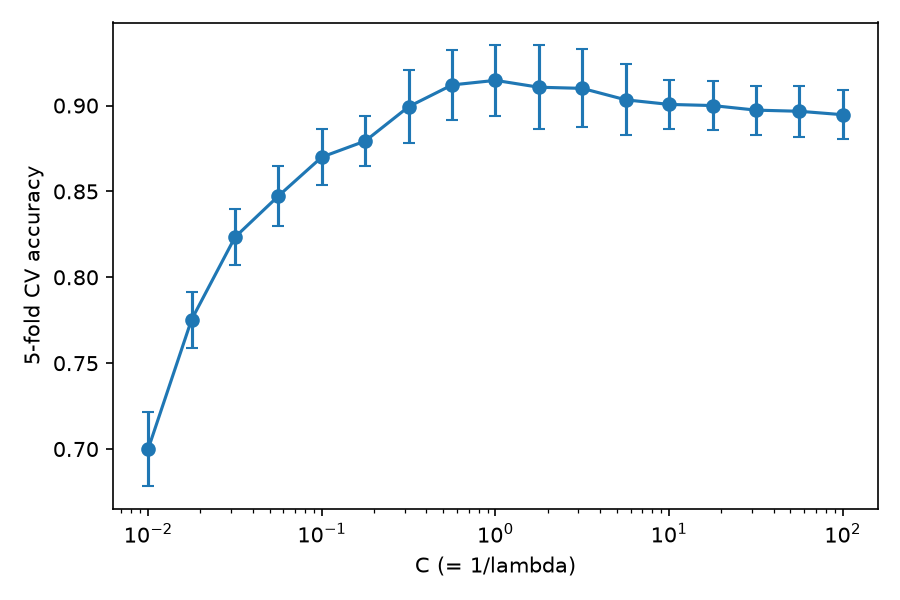
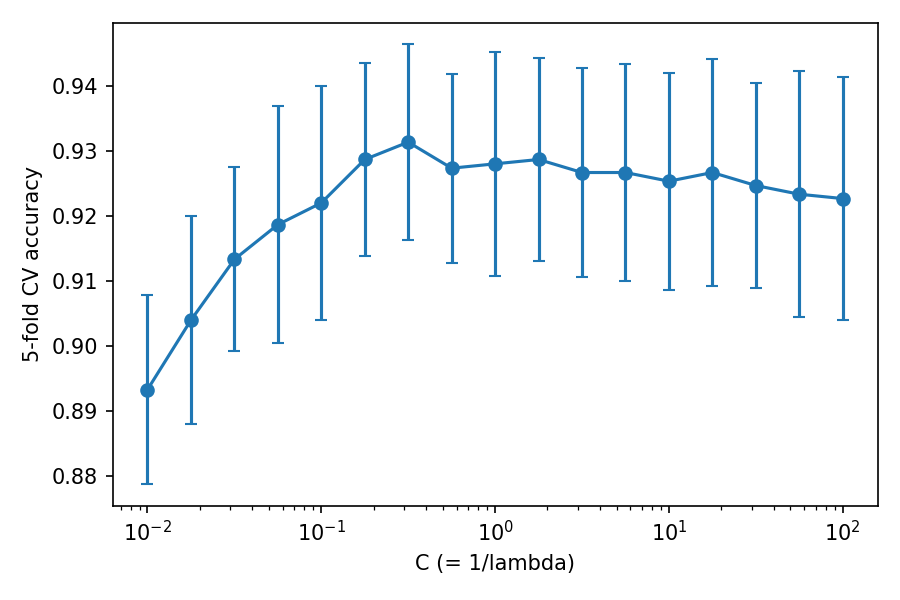
Add Random Forest and Gradient Boosting models

diff --git a/src/gb.py b/src/gb.py
@@ -1,0 +1,69 @@
+# 梯度提升
+# 词袋 -> GradientBoostingClassifier
+# 调参: 树的数量、学习率和树深度，5 折交叉验证
+import matplotlib.pyplot as plt
+import numpy as np
+import pandas as pd
+from sklearn.ensemble import GradientBoostingClassifier
+from sklearn.model_selection import GridSearchCV
+from sklearn.pipeline import Pipeline
+
+from config import SEED
+from preprocessing import TextPreprocessor
+
+N_TREES = [100, 200]
+LEARNING_RATES = [0.03, 0.1]
+DEPTHS = [1, 2, 3]
+
+
+def tune(d):
+    pipe = Pipeline([
+        ("vec", TextPreprocessor().make_vec()),
+        ("clf", GradientBoostingClassifier(random_state=SEED)),
+    ])
+    grid = {
+        "clf__n_estimators": N_TREES,
+        "clf__learning_rate": LEARNING_RATES,
+        "clf__max_depth": DEPTHS,
+    }
+    # 并行交叉验证；refit=True 会在完整训练集上重新训练最优模型
+    gs = GridSearchCV(pipe, grid, cv=d.folds(), scoring="accuracy",
+                      n_jobs=-1, refit=True, verbose=1, error_score="raise")
+    gs.fit(d.X, d.y)
+
+    cv = gs.cv_results_
+    res = pd.DataFrame({
+        "n_estimators": list(cv["param_clf__n_estimators"]),
+        "learning_rate": list(cv["param_clf__learning_rate"]),
+        "max_depth": list(cv["param_clf__max_depth"]),
+        "acc": cv["mean_test_score"],
+        "sd": cv["std_test_score"],
+    })
+    return gs.best_estimator_, gs.best_params_, res
+
+
+def top(m, n=5):
+    # 不纯度下降重要性：只有大小，不表示偏向 AI 还是人写
+    names = m["vec"].get_feature_names_out()
+    imp = m["clf"].feature_importances_
+    idx = np.argsort(imp)[::-1][:n]
+    return pd.DataFrame({"feature": names[idx], "score": imp[idx]})
+
+
+def plot(res, path):
+    # 每个子图固定树深度，每条曲线固定学习率
+    depths = sorted(res["max_depth"].unique())
+    fig, axes = plt.subplots(1, len(depths), figsize=(5 * len(depths), 4),sharey=True, squeeze=False)
+    for ax, depth in zip(axes[0], depths):
+        sub = res[res["max_depth"] == depth]
+        for rate in sorted(sub["learning_rate"].unique()):
+            r = sub[sub["learning_rate"] == rate].sort_values("n_estimators")
+            ax.errorbar(r["n_estimators"], r["acc"], yerr=r["sd"],
+                        marker="o", capsize=3, label=f"learning_rate={rate}")
+        ax.set_title(f"max_depth={depth}")
+        ax.set_xlabel("Number of trees")
+        ax.legend()
+    axes[0, 0].set_ylabel("5-fold CV accuracy")
+    fig.tight_layout()
+    fig.savefig(path, dpi=150)
+    plt.close(fig)

diff --git a/src/rf.py b/src/rf.py
@@ -1,0 +1,61 @@
+# 随机森林
+# 词袋 -> RandomForestClassifier
+# 调参: 树的数量和每次分裂考虑的特征数量，5 折交叉验证
+import matplotlib.pyplot as plt
+import numpy as np
+import pandas as pd
+from sklearn.ensemble import RandomForestClassifier
+from sklearn.model_selection import GridSearchCV
+from sklearn.pipeline import Pipeline
+
+from config import SEED
+from preprocessing import TextPreprocessor
+
+N_TREES = [100, 300, 500]
+MAX_FEATURES = ["sqrt", 0.1, 0.3]
+
+
+def tune(d):
+    pipe = Pipeline([
+        ("vec", TextPreprocessor().make_vec()),
+        ("clf", RandomForestClassifier(random_state=SEED, n_jobs=1)),
+    ])
+    grid = {
+        "clf__n_estimators": N_TREES,
+        "clf__max_features": MAX_FEATURES,
+    }
+    # 并行交叉验证；refit=True 会在完整训练集上重新训练最优模型
+    gs = GridSearchCV(pipe, grid, cv=d.folds(), scoring="accuracy", n_jobs=-1, refit=True, verbose=1,
+                      error_score="raise")
+    gs.fit(d.X, d.y)
+
+    cv = gs.cv_results_
+    res = pd.DataFrame({
+        "n_estimators": list(cv["param_clf__n_estimators"]),
+        "max_features": list(cv["param_clf__max_features"]),
+        "acc": cv["mean_test_score"],
+        "sd": cv["std_test_score"],
+    })
+    return gs.best_estimator_, gs.best_params_, res
+
+
+def top(m, n=5):
+    # 不纯度下降重要性：只有大小，不表示偏向 AI 还是人写
+    names = m["vec"].get_feature_names_out()
+    imp = m["clf"].feature_importances_
+    idx = np.argsort(imp)[::-1][:n]
+    return pd.DataFrame({"feature": names[idx], "score": imp[idx]})
+
+
+def plot(res, path):
+    # 每条曲线固定 max_features，只改变树的数量
+    plt.figure(figsize=(7, 4))
+    for f in res["max_features"].unique():
+        r = res[res["max_features"] == f].sort_values("n_estimators")
+        plt.errorbar(r["n_estimators"], r["acc"], yerr=r["sd"], marker="o", capsize=3, label=f"max_features={f}")
+    plt.xlabel("Number of trees")
+    plt.ylabel("5-fold CV accuracy")
+    plt.legend()
+    plt.tight_layout()
+    plt.savefig(path, dpi=150)
+    plt.close()

diff --git a/src/train.py b/src/train.py
@@ -17,10 +17,12 @@ matplotlib.use("Agg")
 import lr
 import nb
 import tree
+import rf
+import gb
 from config import FIG_DIR, MOD_DIR, TAB_DIR
 from load_data import ReviewData
 
-MODELS = {"nb": nb, "lr": lr, "tree": tree}
+MODELS = {"nb": nb, "lr": lr, "tree": tree, "rf": rf, "gb": gb, }
 
 
 def main():

diff --git a/README_Gao.md b/README_Gao.md
@@ -1,0 +1,136 @@
+# AI 生成酒店评论检测：随机森林与梯度提升
+
+说明：随机森林（Random Forest）和梯度提升（Gradient Boosting）。
+两个模型复用项目已有的数据划分、文本预处理和训练入口，判断英文酒店评论是人写的还是 AI 生成的。
+
+## 目录结构
+
+以下列出本模块使用的文件及输出位置。
+
+| 路径 | 说明                          |
+|------|-----------------------------|
+| `src/rf.py` | 随机森林：调参、重要特征提取、绘图           |
+| `src/gb.py` | 梯度提升：调参、重要特征提取、绘图           |
+| `src/train.py` | 统一训练入口，保存模型和结果，已增加rf和gb模型训练 | 
+
+测试集指标与统计检验由后续统一评估流程负责。
+
+## 环境配置
+
+使用项目统一的 Python 环境和 `requirements.txt`。在运行代码的同一个解释器中安装依赖：
+
+```bash
+python -m pip install -r requirements.txt
+```
+
+本模块及公共代码使用 scikit-learn、pandas、NumPy、Matplotlib、NLTK 和 joblib。
+
+
+## 在控制台运行
+
+```bash
+python src/train.py rf gb    # 调参并训练随机森林、梯度提升
+python src/train.py rf       # 只训练随机森林
+python src/train.py gb       # 只训练梯度提升
+```
+
+
+### 1. 读取数据
+
+复用现有的 `train.csv` 和 `test.csv`，不为这两个模型重新随机划分数据。
+
+| 数据集 | 人写 NEG | 人写 POS | AI NEG | AI POS | 合计 |
+|--------|----------|----------|--------|--------|------|
+| train | 375 | 375 | 375 | 375 | 1500 |
+| test | 125 | 125 | 125 | 125 | 500 |
+
+模型只使用 `text` 列。`sentiment` 用于分层和后续分组评估，评分、酒店、城市等字段不作为模型特征。
+
+### 2. 训练模型（`train.py`）
+
+两个模型均使用 `GridSearchCV`，在训练集上进行 5 折分层交叉验证，所有模型使用 `d.folds()` 提供的同一组折。根据平均验证准确率选择最优参数，再在全部 1500 条训练评论上重新训练。
+
+| 模型 | Pipeline | 参数网格 | 交叉验证训练次数 |
+|------|----------|----------|------------------|
+| `rf` | 词袋 → RandomForestClassifier | n_estimators ∈ {100, 300, 500}；max_features ∈ {sqrt, 0.1, 0.3} | 9 组 × 5 折 = 45 次 |
+| `gb` | 词袋 → GradientBoostingClassifier | n_estimators ∈ {100, 200}；learning_rate ∈ {0.03, 0.1}；max_depth ∈ {1, 2, 3} | 12 组 × 5 折 = 60 次 |
+
+以上次数不包含最后在完整训练集上的一次重新训练。参数网格是初始搜索范围，不代表已经覆盖所有可能的最优设置；如需调整，只根据训练集交叉验证结果决定。
+
+参数含义：
+
+- **n_estimators**：随机森林中的树数量；梯度提升中的迭代阶段数。
+- **max_features**：随机森林每次分裂考虑的特征数量。`sqrt` 表示特征总数的平方根，0.1 和 0.3 表示约 10% 和 30%。
+- **learning_rate**：梯度提升每次加入新树时的贡献权重。
+- **max_depth**：梯度提升中每棵树允许的最大深度。
+
+两个模型固定 `random_state=SEED`，公共随机种子为 42；其他未指定参数沿用所安装库版本的默认值。
+
+### 3. 保存结果
+
+`train.py` 自动创建输出目录并保存以下文件，其中 `{name}` 为 `rf` 或 `gb`：
+
+| 文件 | 内容 |
+|------|------|
+| `results/models/{name}.joblib` | 最终训练好的 Pipeline，包含向量化器和分类器 |
+| `results/tables/cv_{name}.csv` | 每组参数的交叉验证准确率均值 `acc` 和标准差 `sd` |
+| `results/figures/cv_{name}.png` | 调参曲线 |
+| `results/tables/feat_{name}.csv` | 最终模型的前 5 个重要词语及分数 |
+
+重新训练会覆盖同名输出文件。最佳参数也会打印在控制台中，可以结合 CV 表保存实验记录。
+
+`cv` 是交叉验证结果，不能当作测试集准确率。`feat` 是特征重要性结果，列名为 `feature` 和 `score`。
+
+调参图的绘制方式：
+
+- **rf**：横轴为树数量，每条曲线固定一个 `max_features`。
+- **gb**：每个子图固定一个树深度，每条曲线固定一个学习率，横轴为树数量。
+- 图中的误差线表示五折结果的标准差，不是置信区间。
+
+### 模块用法
+
+两个模块保持与现有 `nb.py`、`lr.py` 和 `tree.py` 相同的接口：
+
+| 函数 | 作用 | 返回值／输出 |
+|------|------|-------------|
+| `tune(d)` | 构建 Pipeline，交叉验证调参并重新训练 | 最终模型、最佳参数、调参结果表 |
+| `top(m, n=5)` | 提取最重要的 n 个词语 | 包含 `feature` 和 `score` 的 DataFrame |
+| `plot(res, path)` | 绘制调参结果 | 保存 PNG 图片 |
+
+模块内部使用公共接口：
+
+```python
+from load_data import ReviewData
+from preprocessing import TextPreprocessor
+
+d = ReviewData.load("train")         # d.X 是文本，d.y 是真假标签
+folds = d.folds()                    # 统一的 5 折分层索引
+vec = TextPreprocessor().make_vec()  # 未拟合的向量化器，放进 Pipeline
+```
+
+## 文本预处理
+
+沿用公共预处理的默认设置：
+
+1. 转小写，统一撇号，去掉重音符号；
+2. 提取字母组成的词，保留 wasn't 这类缩写；
+3. 保留停用词，不做词干提取，只用 unigram；
+4. 使用词频表示，`min_df=5` 删除出现在少于 5 条训练评论中的词。
+
+向量化器位于 Pipeline 内部。交叉验证时，每一折只用自己的训练部分建立词表，再转换该折的验证部分，避免提前利用验证集或测试集信息。
+
+## 重要特征
+
+两个模型均使用分类器的 `feature_importances_`，按基于不纯度下降的重要性从高到低选出五个词。
+
+重要性越高，表示该特征在模型的树分裂中贡献越大，但它没有正负方向，不能仅凭分数判断这个词偏向 AI 还是人写。相关词语可能分担重要性，这种指标也存在偏差，因此报告中需要结合词语含义和训练数据作谨慎解释。
+
+## 后续评估
+
+模型选择完成后，统一评估流程还需要完成：
+
+1. 在相同的 500 条测试评论上计算 accuracy、precision、recall、F1，以 AI 生成（`label=1`）为正类。
+2. 将随机森林、梯度提升分别与最终单棵树进行比较，使用 McNemar 检验，显著性水平为 0.01，并报告对应的 2×2 表。
+3. 使用同一个最终随机森林，分别评估 POS 和 NEG 测试评论的真假识别准确率，并对两个不同样本组采用适当的统计检验。
+4. 保存每条评论的 ID、真实标签、情感和预测结果，保证不同模型的预测可以逐条对齐。
+
